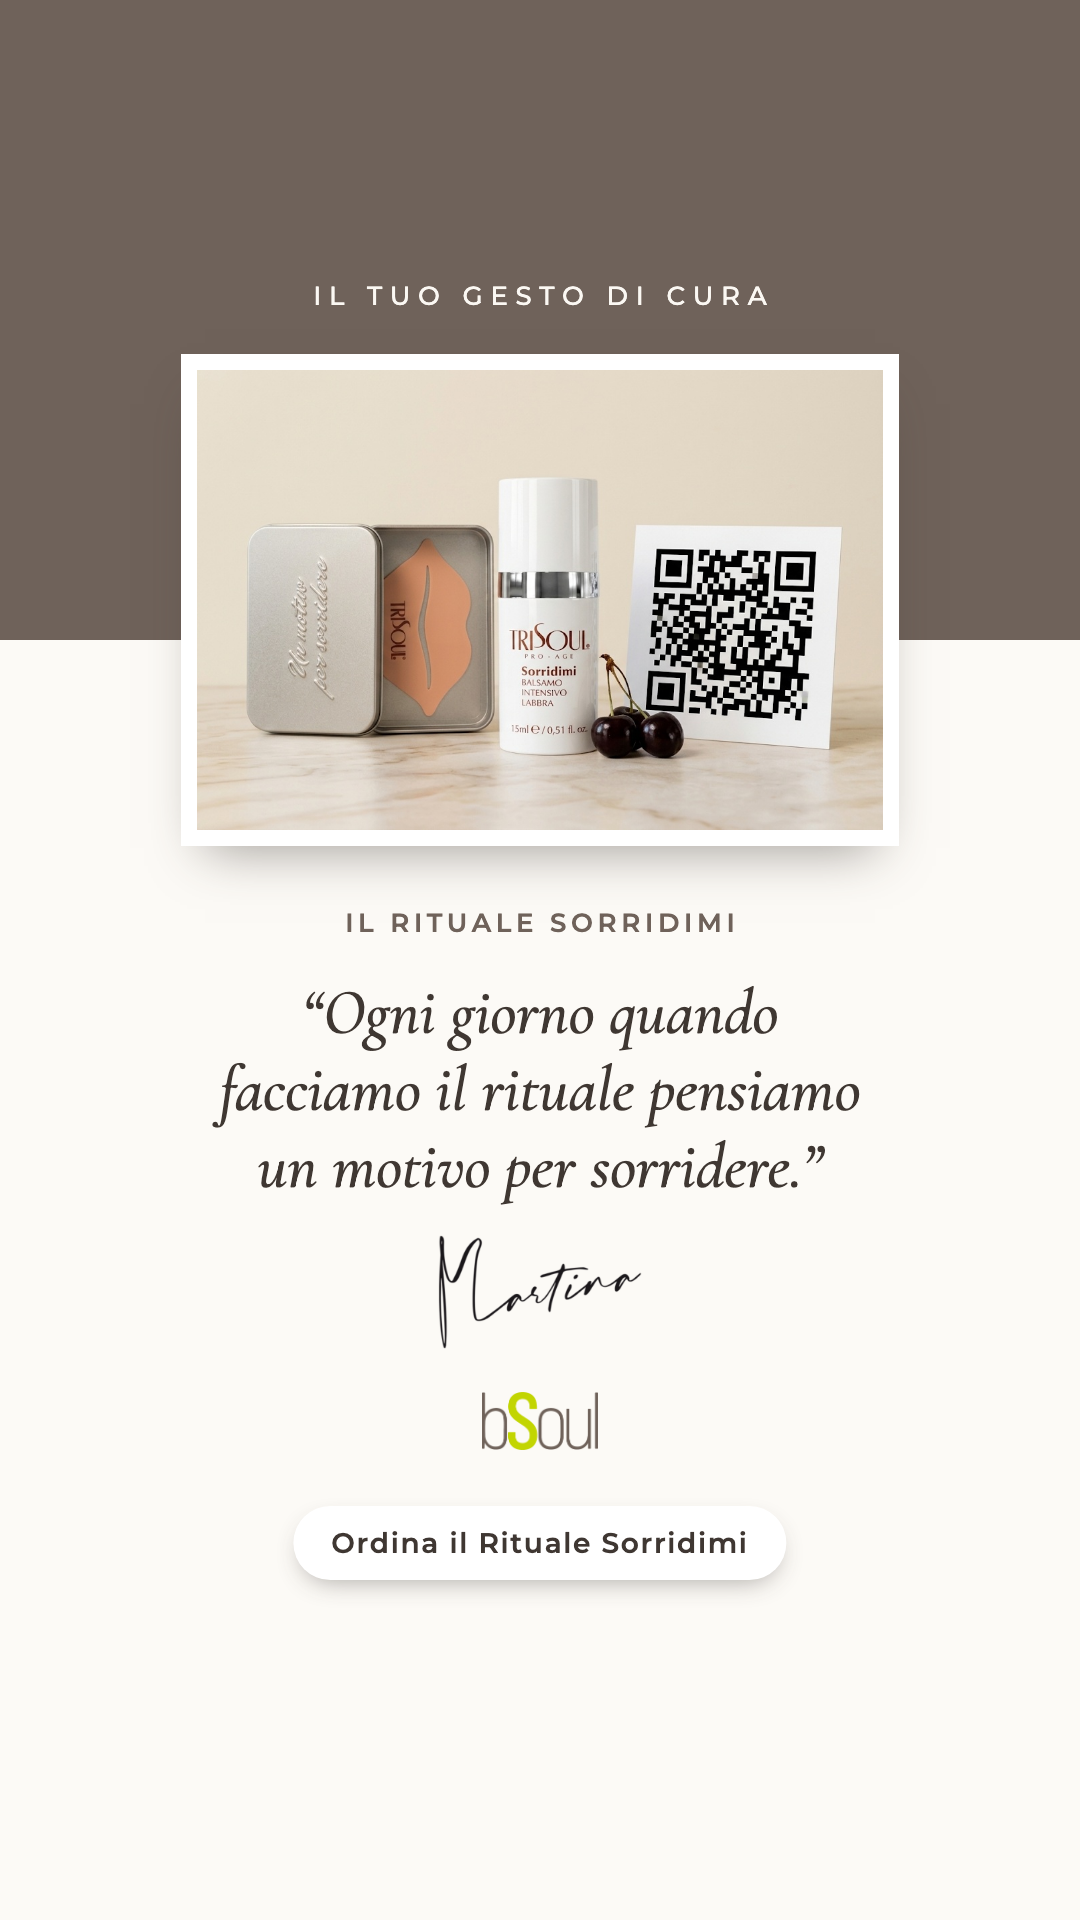
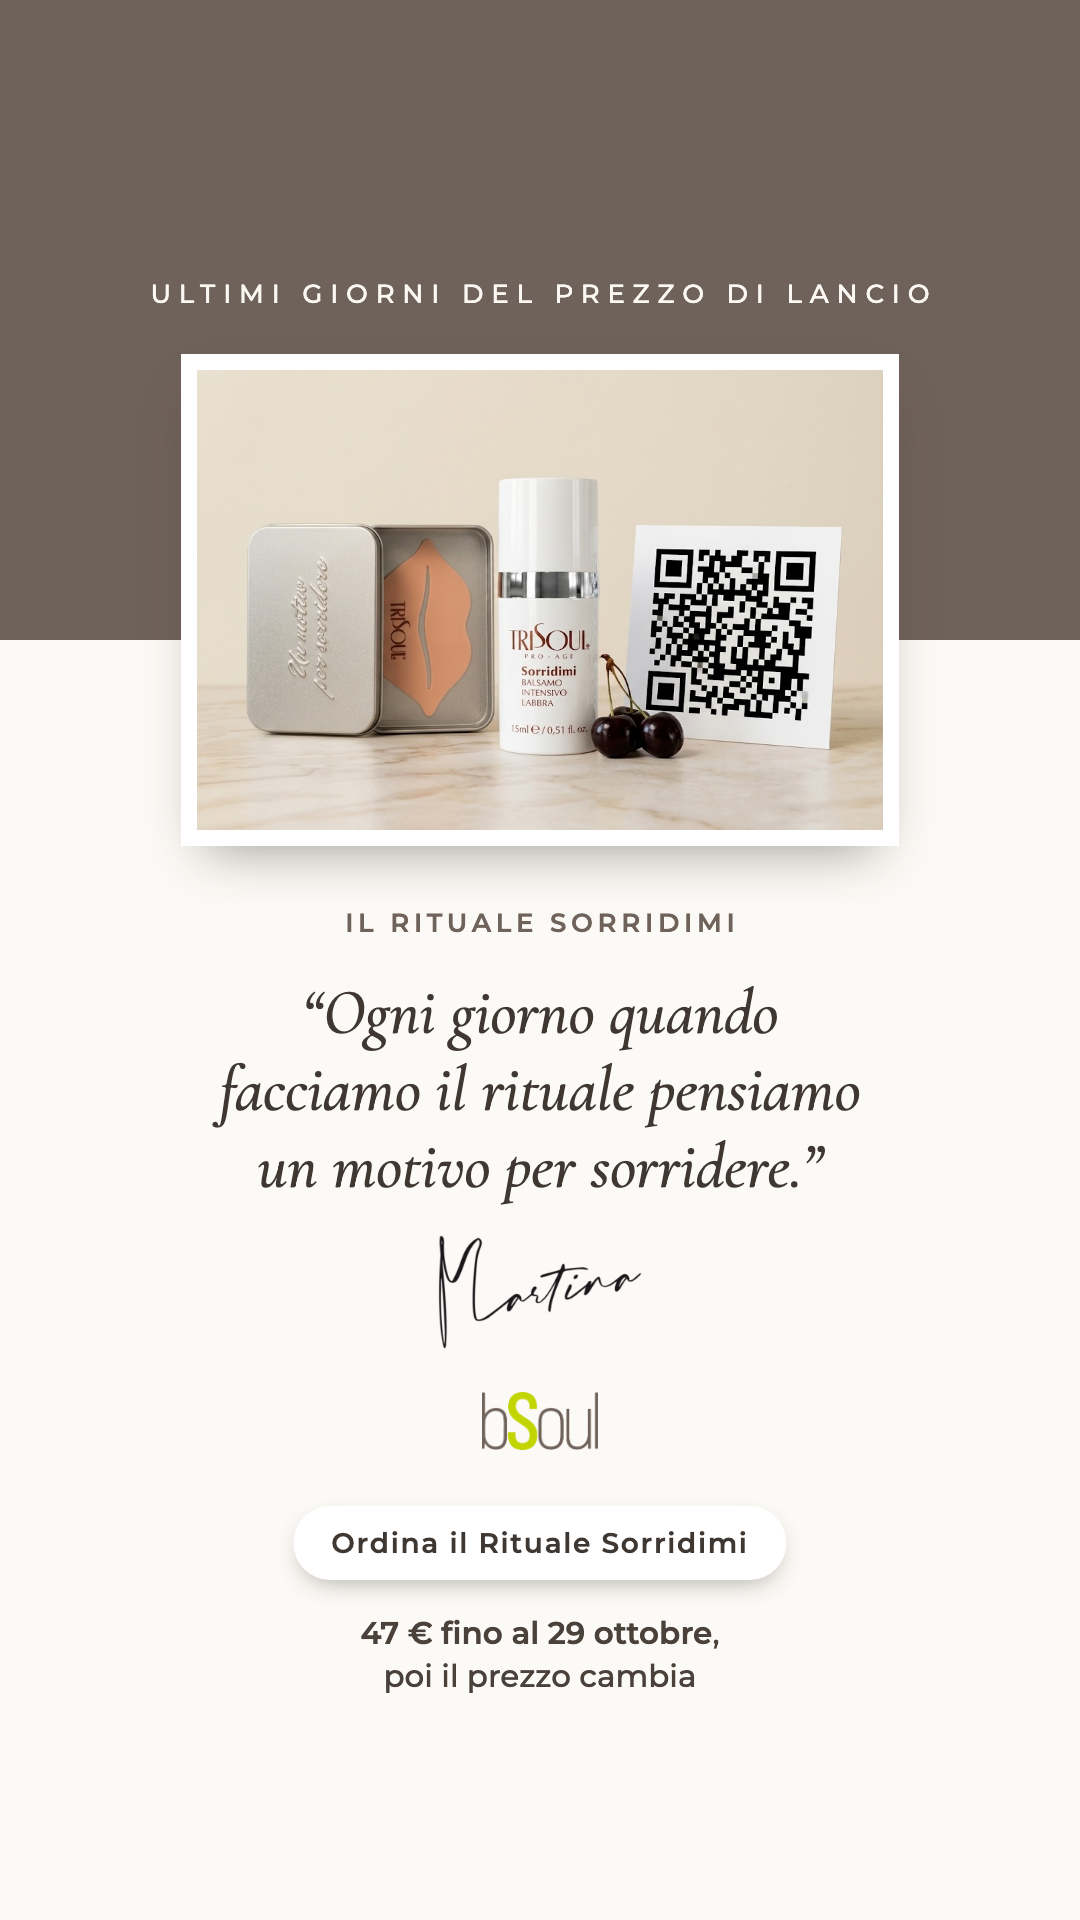
Calendario social: lo stato di adesso (versione 20261027-141154)

diff --git a/settimane/2026-10-26_2026-11-01/index.html b/settimane/2026-10-26_2026-11-01/index.html
@@ -98,7 +98,7 @@ Il muscolo che la tiene su resta in tensione per ore, poi molla.
 
 Qui ti spiego l&#x27;unico modo per farlo rilassare davvero, e ogni quanto farlo. Pochi secondi, al pc come al cellulare 💚
 
-#pellematura #proaging #cosmeticinaturali</pre></div><p class="fonte">Da dove viene: macchina video, video nuovo, girato «bSoul 051026 Girato pulito AI.mp4», corto «La palpebra cede anche per gli schermi: ogni 20 minuti fai così»</p></div></article><article class="scheda storia"><div class="vista"><div class="vuoto">Il file non c'è ancora</div></div><div class="corpo"><div class="testa"><span class="tipo">Storia</span><span class="ora">ore 12:30</span><span class="stato att">In attesa</span></div><h3>Storia: una recensione</h3><ul class="note"><li>nessuna recensione a 5 stelle adatta e mai usata negli ultimi 45 giorni</li></ul><p class="fonte">Da dove viene: recensioni</p></div></article><article class="scheda storia"><div class="vista"><a href="media/2026-10-27_storia_offerta.png" target="_blank"><img loading="lazy" src="media/2026-10-27_storia_offerta.png" alt=""></a><a class="scarica" href="media/2026-10-27_storia_offerta.png" download>Scarica il file</a></div><div class="corpo"><div class="testa"><span class="tipo">Storia</span><span class="ora">ore 12:30</span><span class="stato ok">Pronto</span></div><h3>Storia: l&#x27;offerta</h3><p class="cosa">La storia dell&#x27;offerta in corso, il Rituale Sorridimi: la stessa grafica del rituale completo (balsamo, patch nella scatolina, cartoncino con il QR, frase e firma di Martina) approvata da Nic e Martina il 5/10 e già pubblicata il 10/10.</p><div class="testo"><div class="riga"><span class="et">Adesivo del link</span><button type="button" data-copia="c5-t0">Copia</button></div><pre id="c5-t0">Ordina il Rituale Sorridimi</pre></div><ul class="note"><li>La grafica è già fatta (testo e firma dentro l&#x27;immagine); l&#x27;adesivo del link va messo a mano nella fascia vuota in basso.</li><li>L&#x27;adesivo porta alla landing: https://www.bsoul.it/il-rituale-sorridimi-lp/?utm_source=instagram&amp;utm_medium=social&amp;utm_content=storia-offerta&amp;utm_campaign=271026</li><li>Nella storia non c&#x27;è né il prezzo né la scadenza del prezzo di lancio: non promette niente dopo il prezzo di lancio. Non va ripubblicata a partire dal 29 ottobre senza ricontrollare cosa dice la pagina.</li><li>Il QR che si vede nell&#x27;immagine è finto e non si legge.</li><li>Preparata a mano da Virgilio il 27/10/2026 (richiesta di Nic): la macchina non sa ancora fare da sola le storie dell&#x27;offerta.</li></ul><p class="fonte">Da dove viene: grafica della storia del 10/10/2026 (testo di Nic del 5/10, modello «racconto b»)</p></div></article></section><section class="giorno" id="g2026-10-28"><h2>Mercoledì 28 ottobre</h2><article class="scheda post"><div class="vista"><div class="vuoto">Il file non c'è ancora</div></div><div class="corpo"><div class="testa"><span class="tipo">Post</span><span class="ora">ore 13:00</span><span class="stato att">In attesa</span></div><h3>Post: la recensione della settimana</h3><ul class="note"><li>nessuna recensione a 5 stelle adatta negli ultimi 7 giorni</li></ul><p class="fonte">Da dove viene: recensioni</p></div></article><article class="scheda storia"><div class="vista"><div class="vuoto">Il file non c'è ancora</div></div><div class="corpo"><div class="testa"><span class="tipo">Storia</span><span class="ora">ore 18:30</span><span class="stato att">In attesa</span></div><h3>Storia: dal blog</h3><ul class="note"><li>il sito non si legge (protezione Cloudflare): serve la modifica di Nic</li></ul><p class="fonte">Da dove viene: blog bSoul</p></div></article></section><section class="giorno" id="g2026-10-29"><h2>Giovedì 29 ottobre</h2><article class="scheda storia"><div class="vista"><a href="media/2026-10-29_storia_newsletter.png" target="_blank"><img loading="lazy" src="media/2026-10-29_storia_newsletter.png" alt=""></a><a class="scarica" href="media/2026-10-29_storia_newsletter.png" download>Scarica il file</a></div><div class="corpo"><div class="testa"><span class="tipo">Storia</span><span class="ora">ore 11:00</span><span class="stato ok">Pronto</span></div><h3>Storia: iscriviti alla newsletter</h3><p class="cosa">La storia che invita a iscriversi alle News di Martina.</p><ul class="note"><li>Adesivo del link: https://www.bsoul.it/newsletter?utm_source=instagram&amp;utm_medium=social&amp;utm_content=storia-newsletter&amp;utm_campaign=291026</li><li>Fatti presi da: Unico fatto usato: la newsletter arriva nella email di chi si iscrive, dal materiale del brief (riga fissa della grafica «Arriva nella tua email, gratis.» e invito «Iscriviti qui sotto» con l&#x27;adesivo del link alla pagina d&#x27;iscrizione). Nessun altro fatto: niente giorni di uscita, niente sconti o regali, e i tre punti (video, articoli del blog, novità) non sono ripetuti né ampliati. Forma e voce: instagram_scheda_voce_social_2026_09_30.md sez. 1 (storie: stessa voce con il «noi» della casa), sez. 6 (titolo al massimo 7 parole, parole di tutti i giorni, tono più caldo e più «noi» perché la vede chi ci segue) e sez. 7 (parole vietate e delicate: nessuna presente; «salute/sana» evitate, nessun nome di prodotto, nessuna emoji, nessun trattino). Tecnica: Merenda, «Vendere con la penna», cap. 14 letto oggi in references/archivio/VENDERE_CON_LA_PENNA_Capitoli_11_12_13_14_15.md (righe 533-642: l&#x27;azione precisa chiude il pezzo, e fra gli esempi di CTA c&#x27;è proprio «iscriversi a una newsletter»; qui l&#x27;azione sta nella riga fissa «Iscriviti qui sotto», quindi il titolo fa solo il desiderio e la chiamata), più cap. 6 richiamato in instagram_storie_piu_calde_2026_10_02-04.md (al cliente caldo si ricorda che esisti e si dà l&#x27;ultima spinta). Voce reale di Silvia: references/18 aprile.md (apre con la domanda che la lettrice si fa già, «Come stai, davvero, oggi?») e references/10 gennaio.md (domanda d&#x27;apertura, «Pronta a…?»): da qui la forma della domanda invece dell&#x27;annuncio. Parole delle clienti: linguaggio_clienti_bsoul_2026-09-08.md (registro dell&#x27;amica, 18 su 39 aprono con «Ciao Martina»; «ritagliarsi» e il «ritrovarci/si riparte» come loro verbi) e me.md §2 (domande per coinvolgere, linguaggio noi/insieme). Testi già usati per questa stessa storia, per non ripetere le parole: «Consigli per la pelle, fra noi donne» e «Ogni settimana ritroviamo il tempo per noi» (prove del 14/10/2026 registrate in wiki/bsoul/progetti/Acquisizione bSoul/Calendario social/tasks.md); qui non tornano né «consigli», né «ogni settimana», né «tempo per noi». Il titolo uscito lunedì 19/10 non l&#x27;ho potuto leggere: sta solo dentro la grafica PNG del pacchetto 2026-10-19_2026-10-25, non nei testi, quindi una sovrapposizione di parole con quello non è esclusa [Ipotesi]. Giovedì 29 ottobre 2026 verificato come giovedì partendo dalle date certe della macchina (lunedì 19/10 in config.json/tasks.md e venerdì 23/10 nel RESOCONTO del pacchetto). Conteggio: 7 parole esatte (Ti va di ritrovarci nella tua email), dentro il limite di titolo_storia. Non verificato da me: che l&#x27;adesivo del link porti davvero a https://www.bsoul.it/newsletter con gli UTM della storia (da provare prima dell&#x27;uscita, scheda sez. 3). Nessun file scritto o modificato.</li></ul><p class="fonte">Da dove viene: testo di Copy; punti dalla pagina Le News di Martina (config.json)</p></div></article><article class="scheda reel"><div class="vista"><div class="vuoto">Il file non c'è ancora</div></div><div class="corpo"><div class="testa"><span class="tipo">Reel</span><span class="ora">ore 13:00</span><span class="stato att">In attesa</span></div><h3>Reel del giorno: la clip del video che esce oggi</h3><ul class="note"><li>Il trailer di Suyen non è ancora su Drive (si aspetta un file &quot;Mpas 291026 Trailer&quot; nella cartella «Trailer» di Drive). Appena c&#x27;è, il giro lo prende da solo.</li></ul><p class="fonte">Da dove viene: cartella «Trailer» di Drive</p></div></article><article class="scheda storia"><div class="vista"><div class="vuoto">Il file non c'è ancora</div></div><div class="corpo"><div class="testa"><span class="tipo">Storia</span><span class="ora">ore 18:15</span><span class="stato att">In attesa</span></div><h3>Storia: il reel del giorno ricondiviso, con il link al video</h3><ul class="note"><li>Il trailer di Suyen non è ancora su Drive (si aspetta un file &quot;Mpas 291026 Trailer&quot; nella cartella «Trailer» di Drive). Appena c&#x27;è, il giro lo prende da solo.</li></ul><p class="fonte">Da dove viene: cartella «Trailer» di Drive</p></div></article></section><section class="giorno" id="g2026-10-30"><h2>Venerdì 30 ottobre</h2><article class="scheda reel"><div class="vista"><video controls preload="none" playsinline poster="media/2026-10-30_reel_della_settimana.jpg" src="media/2026-10-30_reel_della_settimana.mp4"></video><a class="scarica" href="media/2026-10-30_reel_della_settimana.mp4" download>Scarica il file</a></div><div class="corpo"><div class="testa"><span class="tipo">Reel</span><span class="ora">ore 13:00</span><span class="stato ok">Pronto</span></div><h3>Reel dai video della settimana</h3><p class="cosa">Il corto «Il muscolo intorno alla bocca tira giù tutto il tuo viso» della macchina video.</p><div class="testo"><div class="riga"><span class="et">Didascalia</span><button type="button" data-copia="c11-t0">Copia</button></div><pre id="c11-t0">Se l&#x27;ovale perde definizione e la testa va in avanti, c&#x27;entra anche la bocca.
+#pellematura #proaging #cosmeticinaturali</pre></div><p class="fonte">Da dove viene: macchina video, video nuovo, girato «bSoul 051026 Girato pulito AI.mp4», corto «La palpebra cede anche per gli schermi: ogni 20 minuti fai così»</p></div></article><article class="scheda storia"><div class="vista"><div class="vuoto">Il file non c'è ancora</div></div><div class="corpo"><div class="testa"><span class="tipo">Storia</span><span class="ora">ore 12:30</span><span class="stato att">In attesa</span></div><h3>Storia: una recensione</h3><ul class="note"><li>nessuna recensione a 5 stelle adatta e mai usata negli ultimi 45 giorni</li></ul><p class="fonte">Da dove viene: recensioni</p></div></article><article class="scheda storia"><div class="vista"><a href="media/2026-10-27_storia_offerta.png" target="_blank"><img loading="lazy" src="media/2026-10-27_storia_offerta.png" alt=""></a><a class="scarica" href="media/2026-10-27_storia_offerta.png" download>Scarica il file</a></div><div class="corpo"><div class="testa"><span class="tipo">Storia</span><span class="ora">ore 12:30</span><span class="stato ok">Pronto</span></div><h3>Storia: l&#x27;offerta</h3><p class="cosa">La storia dell&#x27;offerta in corso, il Rituale Sorridimi: la stessa grafica del rituale completo (balsamo, patch nella scatolina, cartoncino con il QR, frase e firma di Martina) approvata da Nic e Martina il 5/10 e già pubblicata il 10/10, con in più la scadenza del prezzo di lancio.</p><div class="testo"><div class="riga"><span class="et">Adesivo del link</span><button type="button" data-copia="c5-t0">Copia</button></div><pre id="c5-t0">Ordina il Rituale Sorridimi</pre></div><ul class="note"><li>La grafica è già fatta (testo e firma dentro l&#x27;immagine); l&#x27;adesivo del link va messo a mano nella fascia vuota in basso.</li><li>L&#x27;adesivo porta alla landing: https://www.bsoul.it/il-rituale-sorridimi-lp/?utm_source=instagram&amp;utm_medium=social&amp;utm_content=storia-offerta&amp;utm_campaign=271026</li><li>Righe aggiunte su richiesta di Nic (27/10): in alto «Ultimi giorni del prezzo di lancio», sotto il bottone «47 € fino al 29 ottobre, poi il prezzo cambia». Prezzo e scadenza come nelle mail e nella scheda prodotto (fino al 29 ottobre alle 23:59); il prezzo nuovo non si scrive. Dal 30 ottobre questa storia non si ripubblica.</li><li>Il QR che si vede nell&#x27;immagine è finto e non si legge.</li><li>Preparata a mano da Virgilio il 27/10/2026 (richiesta di Nic): la macchina non sa ancora fare da sola le storie dell&#x27;offerta.</li></ul><p class="fonte">Da dove viene: grafica della storia del 10/10/2026 (testo di Nic del 5/10, modello «racconto b») con le righe del prezzo di lancio</p></div></article></section><section class="giorno" id="g2026-10-28"><h2>Mercoledì 28 ottobre</h2><article class="scheda post"><div class="vista"><div class="vuoto">Il file non c'è ancora</div></div><div class="corpo"><div class="testa"><span class="tipo">Post</span><span class="ora">ore 13:00</span><span class="stato att">In attesa</span></div><h3>Post: la recensione della settimana</h3><ul class="note"><li>nessuna recensione a 5 stelle adatta negli ultimi 7 giorni</li></ul><p class="fonte">Da dove viene: recensioni</p></div></article><article class="scheda storia"><div class="vista"><div class="vuoto">Il file non c'è ancora</div></div><div class="corpo"><div class="testa"><span class="tipo">Storia</span><span class="ora">ore 18:30</span><span class="stato att">In attesa</span></div><h3>Storia: dal blog</h3><ul class="note"><li>il sito non si legge (protezione Cloudflare): serve la modifica di Nic</li></ul><p class="fonte">Da dove viene: blog bSoul</p></div></article></section><section class="giorno" id="g2026-10-29"><h2>Giovedì 29 ottobre</h2><article class="scheda storia"><div class="vista"><a href="media/2026-10-29_storia_newsletter.png" target="_blank"><img loading="lazy" src="media/2026-10-29_storia_newsletter.png" alt=""></a><a class="scarica" href="media/2026-10-29_storia_newsletter.png" download>Scarica il file</a></div><div class="corpo"><div class="testa"><span class="tipo">Storia</span><span class="ora">ore 11:00</span><span class="stato ok">Pronto</span></div><h3>Storia: iscriviti alla newsletter</h3><p class="cosa">La storia che invita a iscriversi alle News di Martina.</p><ul class="note"><li>Adesivo del link: https://www.bsoul.it/newsletter?utm_source=instagram&amp;utm_medium=social&amp;utm_content=storia-newsletter&amp;utm_campaign=291026</li><li>Fatti presi da: Unico fatto usato: la newsletter arriva nella email di chi si iscrive, dal materiale del brief (riga fissa della grafica «Arriva nella tua email, gratis.» e invito «Iscriviti qui sotto» con l&#x27;adesivo del link alla pagina d&#x27;iscrizione). Nessun altro fatto: niente giorni di uscita, niente sconti o regali, e i tre punti (video, articoli del blog, novità) non sono ripetuti né ampliati. Forma e voce: instagram_scheda_voce_social_2026_09_30.md sez. 1 (storie: stessa voce con il «noi» della casa), sez. 6 (titolo al massimo 7 parole, parole di tutti i giorni, tono più caldo e più «noi» perché la vede chi ci segue) e sez. 7 (parole vietate e delicate: nessuna presente; «salute/sana» evitate, nessun nome di prodotto, nessuna emoji, nessun trattino). Tecnica: Merenda, «Vendere con la penna», cap. 14 letto oggi in references/archivio/VENDERE_CON_LA_PENNA_Capitoli_11_12_13_14_15.md (righe 533-642: l&#x27;azione precisa chiude il pezzo, e fra gli esempi di CTA c&#x27;è proprio «iscriversi a una newsletter»; qui l&#x27;azione sta nella riga fissa «Iscriviti qui sotto», quindi il titolo fa solo il desiderio e la chiamata), più cap. 6 richiamato in instagram_storie_piu_calde_2026_10_02-04.md (al cliente caldo si ricorda che esisti e si dà l&#x27;ultima spinta). Voce reale di Silvia: references/18 aprile.md (apre con la domanda che la lettrice si fa già, «Come stai, davvero, oggi?») e references/10 gennaio.md (domanda d&#x27;apertura, «Pronta a…?»): da qui la forma della domanda invece dell&#x27;annuncio. Parole delle clienti: linguaggio_clienti_bsoul_2026-09-08.md (registro dell&#x27;amica, 18 su 39 aprono con «Ciao Martina»; «ritagliarsi» e il «ritrovarci/si riparte» come loro verbi) e me.md §2 (domande per coinvolgere, linguaggio noi/insieme). Testi già usati per questa stessa storia, per non ripetere le parole: «Consigli per la pelle, fra noi donne» e «Ogni settimana ritroviamo il tempo per noi» (prove del 14/10/2026 registrate in wiki/bsoul/progetti/Acquisizione bSoul/Calendario social/tasks.md); qui non tornano né «consigli», né «ogni settimana», né «tempo per noi». Il titolo uscito lunedì 19/10 non l&#x27;ho potuto leggere: sta solo dentro la grafica PNG del pacchetto 2026-10-19_2026-10-25, non nei testi, quindi una sovrapposizione di parole con quello non è esclusa [Ipotesi]. Giovedì 29 ottobre 2026 verificato come giovedì partendo dalle date certe della macchina (lunedì 19/10 in config.json/tasks.md e venerdì 23/10 nel RESOCONTO del pacchetto). Conteggio: 7 parole esatte (Ti va di ritrovarci nella tua email), dentro il limite di titolo_storia. Non verificato da me: che l&#x27;adesivo del link porti davvero a https://www.bsoul.it/newsletter con gli UTM della storia (da provare prima dell&#x27;uscita, scheda sez. 3). Nessun file scritto o modificato.</li></ul><p class="fonte">Da dove viene: testo di Copy; punti dalla pagina Le News di Martina (config.json)</p></div></article><article class="scheda reel"><div class="vista"><div class="vuoto">Il file non c'è ancora</div></div><div class="corpo"><div class="testa"><span class="tipo">Reel</span><span class="ora">ore 13:00</span><span class="stato att">In attesa</span></div><h3>Reel del giorno: la clip del video che esce oggi</h3><ul class="note"><li>Il trailer di Suyen non è ancora su Drive (si aspetta un file &quot;Mpas 291026 Trailer&quot; nella cartella «Trailer» di Drive). Appena c&#x27;è, il giro lo prende da solo.</li></ul><p class="fonte">Da dove viene: cartella «Trailer» di Drive</p></div></article><article class="scheda storia"><div class="vista"><div class="vuoto">Il file non c'è ancora</div></div><div class="corpo"><div class="testa"><span class="tipo">Storia</span><span class="ora">ore 18:15</span><span class="stato att">In attesa</span></div><h3>Storia: il reel del giorno ricondiviso, con il link al video</h3><ul class="note"><li>Il trailer di Suyen non è ancora su Drive (si aspetta un file &quot;Mpas 291026 Trailer&quot; nella cartella «Trailer» di Drive). Appena c&#x27;è, il giro lo prende da solo.</li></ul><p class="fonte">Da dove viene: cartella «Trailer» di Drive</p></div></article></section><section class="giorno" id="g2026-10-30"><h2>Venerdì 30 ottobre</h2><article class="scheda reel"><div class="vista"><video controls preload="none" playsinline poster="media/2026-10-30_reel_della_settimana.jpg" src="media/2026-10-30_reel_della_settimana.mp4"></video><a class="scarica" href="media/2026-10-30_reel_della_settimana.mp4" download>Scarica il file</a></div><div class="corpo"><div class="testa"><span class="tipo">Reel</span><span class="ora">ore 13:00</span><span class="stato ok">Pronto</span></div><h3>Reel dai video della settimana</h3><p class="cosa">Il corto «Il muscolo intorno alla bocca tira giù tutto il tuo viso» della macchina video.</p><div class="testo"><div class="riga"><span class="et">Didascalia</span><button type="button" data-copia="c11-t0">Copia</button></div><pre id="c11-t0">Se l&#x27;ovale perde definizione e la testa va in avanti, c&#x27;entra anche la bocca.
 
 Sotto la pelle una pellicola tiene insieme i muscoli del viso: quello intorno alla bocca, con gli anni, si contrae e la tira giù.
 

diff --git a/hub.html b/hub.html
@@ -55,7 +55,7 @@ main>h1,main>h1+.sotto{text-align:center}
     <!-- SETTIMANE: una riga per settimana, la più recente in alto -->
     <a class="settimana" href="settimane/2026-10-26_2026-11-01/index.html">
       <strong>Da lunedì 26 ottobre a domenica 1 novembre</strong>
-      <span>18 contenuti: 9 pronti, 9 in attesa. In attesa: martedì storia, mercoledì post e storia, giovedì reel e storia, venerdì storia, sabato 2 storie, domenica storia. Aggiornata martedì 27 ottobre alle 13:30.</span>
+      <span>18 contenuti: 9 pronti, 9 in attesa. In attesa: martedì storia, mercoledì post e storia, giovedì reel e storia, venerdì storia, sabato 2 storie, domenica storia. Aggiornata martedì 27 ottobre alle 14:11.</span>
     </a>
 
     <p class="piede">Sono bozze: si guardano, si segna cosa cambiare, poi Alberto programma. Da qui non si pubblica niente.</p>
